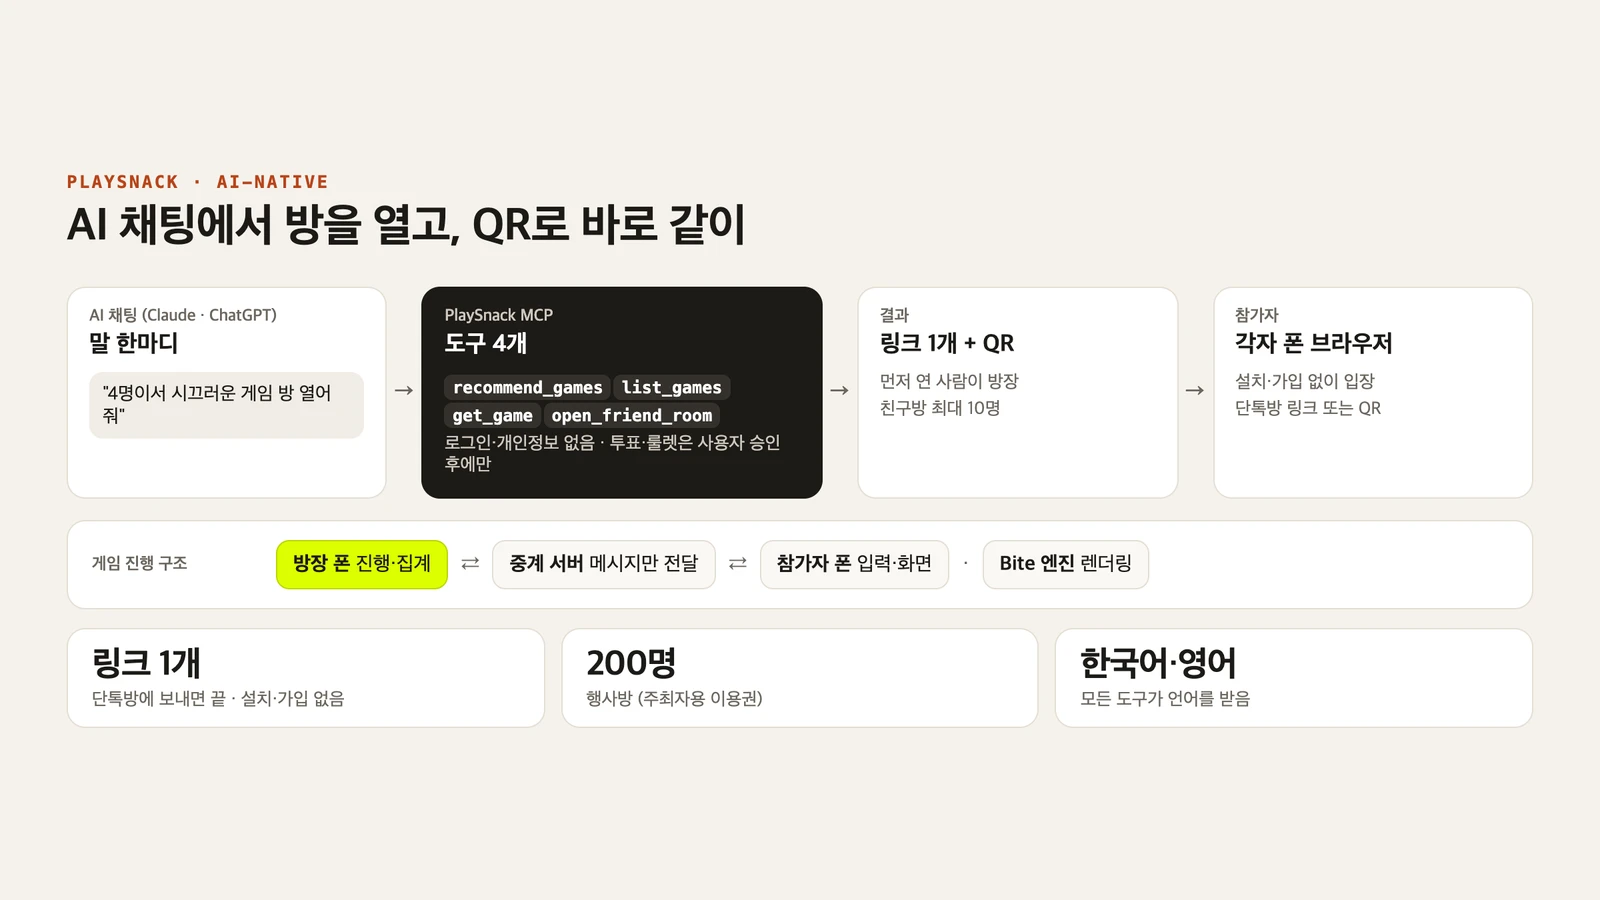
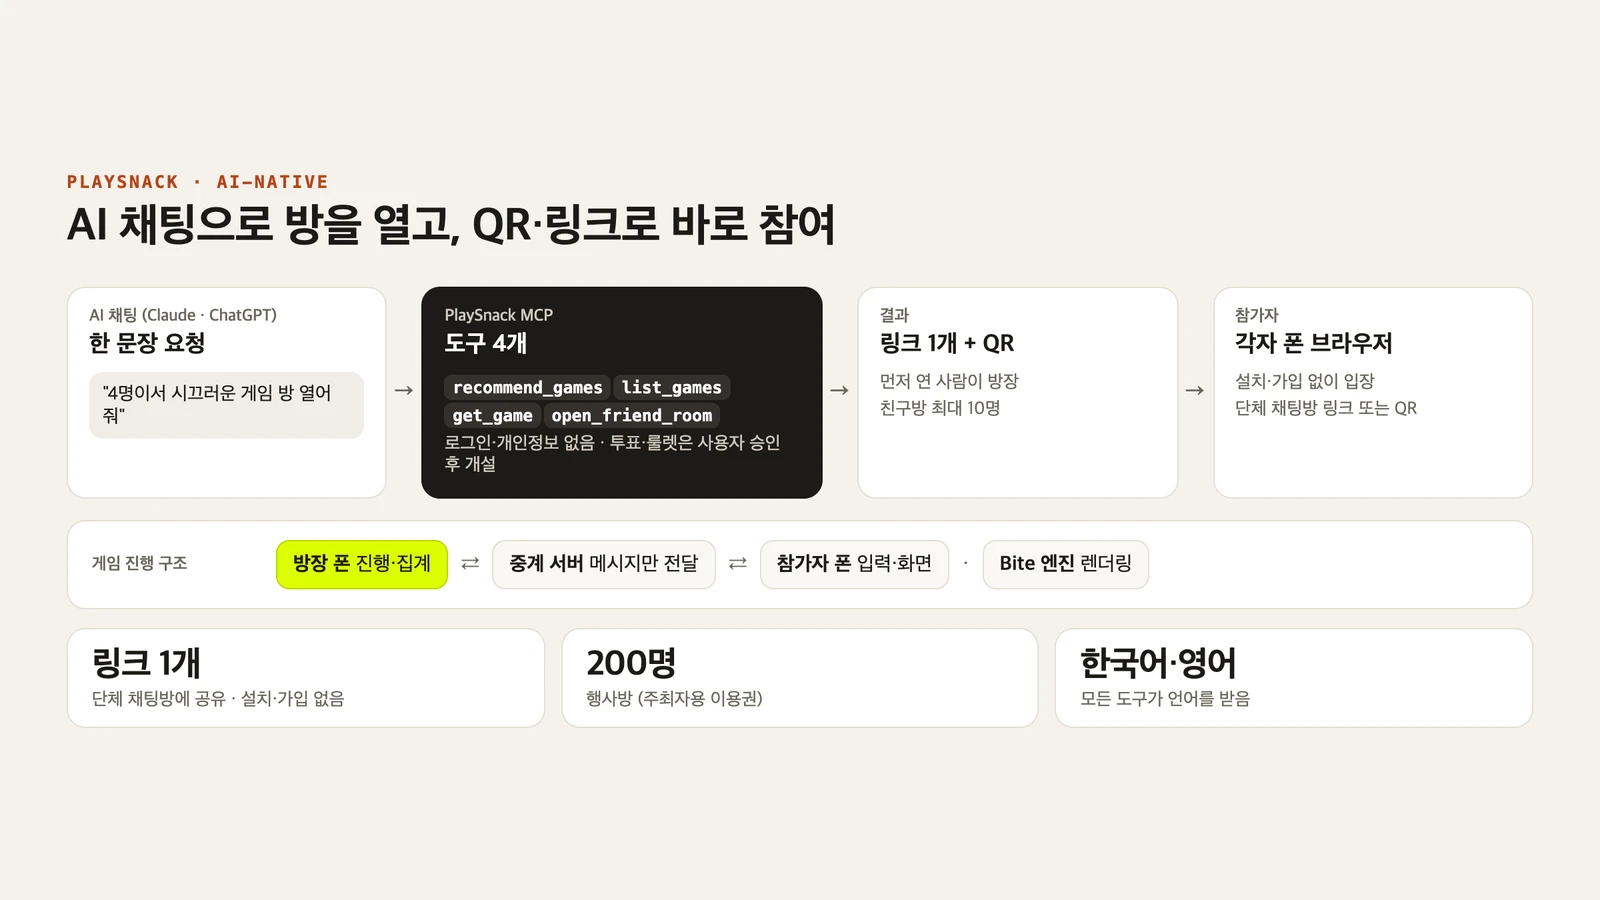
content: 한국어 어투 정리 — 문단은 ~습니다, 목록·캡션은 명사형 개조식, 구어 표현(말 한마디·단톡방·~나눠요·~없어요 등) 정리, PlaySnack·Bite 개요 그림 문구 포함

diff --git a/src/content/projects.ts b/src/content/projects.ts
@@ -187,7 +187,7 @@ const data: (Omit<Project, "images"> & { images?: ImageAsset[]; leadImages?: Ima
       problem:
         "ProtoPie Player는 iOS·Android로만 제공돼, Huawei(HarmonyOS) 기기에서는 프로토타입을 실행해 볼 수 없었습니다. HarmonyOS는 언어와 UI 프레임워크가 달라 엔진·렌더러·UI 코드를 모두 새로 써야 했고, 인원은 PO인 저와 개발자 1명이었습니다.",
       decisions: [
-        "코드를 옮기는 대신 스펙을 옮김 — 기능 스펙이 같은 Android 앱의 동작을 스펙과 검증 기준으로 정리하고, 구현은 그 스펙을 따르게 함",
+        "코드 대신 스펙 이전 — 기능 스펙이 같은 Android 앱의 동작을 스펙과 검증 기준으로 정리하고, 구현은 그 스펙 기준으로 진행",
         "계획·검증은 Claude Code, 코딩은 Codex로 나누고, 병렬로 가능한 개발·검증은 에이전트 팀이 반복 루프로 진행",
         "AI 학습이 부족한 HarmonyOS API는 검색으로 추적하고, 공식 문서·라이브러리가 틀린 곳은 직접 테스트해 보완 개발",
         "MVP 기능은 모두 개발하고, USB 연결처럼 네이티브 라이브러리에 의존하는 선택적 기능은 보류해 일정 안에 출시",
@@ -236,11 +236,11 @@ const data: (Omit<Project, "images"> & { images?: ImageAsset[]; leadImages?: Ima
       problem:
         "웹 게임 엔진은 폰·인앱 브라우저에서 무거운 3D를 감당하기 어렵고, 네이티브 엔진은 웹에서 무겁습니다. 특정 앱에 묶이지 않고 웹과 폰에서 같은 결과를 가볍게 내는 엔진이 필요했습니다.",
       decisions: [
-        "앱과 독립 — 엔진은 앱·콘텐츠를 모르고, 앱은 공개된 호스트 API로만 엔진을 씀",
-        "한 엔진, 여러 플랫폼 — Rust 코어를 웹·Android·macOS로 빌드하고, GPU는 wgpu 위에 WebGL2 경로를 둠",
-        "느낌이 아니라 같은 화면으로 고름 — 2D 렌더러 후보를 같은 장면으로 나란히 그려 비교",
-        "결정적 실행 — 같은 입력이면 같은 프레임·샷 결과, 해시로 버전 간 회귀를 잡음",
-        "기능은 모듈로 — 3D·탄도·파티클 등은 필요할 때만 넣고, 웹 기본 빌드 크기를 게이트로 지킴",
+        "앱과 독립 — 엔진은 앱·콘텐츠에 의존하지 않고, 앱은 공개된 호스트 API로만 엔진을 사용",
+        "한 엔진, 여러 플랫폼 — Rust 코어를 웹·Android·macOS로 빌드하고, GPU는 wgpu 위에 WebGL2 경로까지 지원",
+        "같은 화면으로 비교해 선택 — 2D 렌더러 후보를 같은 장면으로 나란히 렌더링해 비교",
+        "결정적 실행 — 같은 입력이면 같은 프레임·샷 결과, 해시로 버전 간 회귀 검출",
+        "기능은 모듈로 — 3D·탄도·파티클 등은 필요할 때만 넣고, 웹 기본 빌드 크기는 빌드마다 상한 검사",
       ],
       outcome: {
         label: "결과",
@@ -257,12 +257,12 @@ const data: (Omit<Project, "images"> & { images?: ImageAsset[]; leadImages?: Ima
     duty: "기획·설계·개발",
     keywords: list("MCP, Multiplayer, Social Games"),
     notionDate: { start: "2026-10-07" },
-    fullName: "PlaySnack · 친구랑 바로 한 판",
+    fullName: "PlaySnack — 링크·QR로 함께하는 소셜 게임",
     domain: "개인 프로젝트 / 소셜 게임 서비스",
     period: "2026.10 -",
     tasks: [
       "[직접] 서비스 기획·개발 — 게임·퀴즈·투표·월드컵을 JSON 앱 문서로 만들고, 링크를 연 사람끼리 실시간으로 같이 플레이 ([playsnack.app](https://playsnack.app))",
-      "[직접] AI 네이티브 — PlaySnack MCP 서버(도구 4개: 게임 추천·목록·규칙·친구방 열기)로 Claude·ChatGPT에서 말 한마디로 방을 열면 링크 1개와 QR 페이지를 돌려줌. 로그인·개인정보 없음, 투표·룰렛은 사용자 승인 후에만 열리도록 서버가 막음",
+      "[직접] AI 네이티브 — PlaySnack MCP 서버(도구 4개: 게임 추천·목록·규칙·친구방 열기)로 Claude·ChatGPT에서 한 문장 요청으로 방을 열면 링크 1개와 QR 페이지를 반환. 로그인·개인정보 없음, 투표·룰렛은 사용자 승인 전에는 서버에서 차단",
       "[직접] QR·링크 입장 — 설치·가입 없이 각자 폰 브라우저로, 먼저 연 사람이 방장(친구방 최대 10명)",
       "[직접] 행사 주최자용 기능 — 송년회·워크숍 같은 행사를 열면 최대 200명이 같은 방에서 참여, 진행자가 방(PIN 등)을 관리, 행사 이용권(하루 US$49, 필요한 날수만큼) 결제를 2026.11 실서비스로 오픈",
       "[직접] 호스트 방식 멀티플레이 — 게임 진행·집계는 방장 기기가 맡고 서버는 메시지만 중계해, 방이 늘어도 서버 부담과 장애 범위를 작게",
@@ -292,9 +292,9 @@ const data: (Omit<Project, "images"> & { images?: ImageAsset[]; leadImages?: Ima
         "모임이나 행사에서 바로 같이 할 수 있는 게임은 설치나 가입이 번거롭고, 행사 주최자는 수십~수백 명을 한 번에 참여시킬 도구가 필요했습니다. 또 골프처럼 실제 운동과 이어지는 게임은 비싼 측정 장비가 필요했습니다.",
       decisions: [
         "링크 하나로 같이 — 설치·가입 없이 링크를 연 사람끼리 실시간으로 플레이, 행사는 주최자가 열고 진행",
-        "서버는 얇게 — 게임 진행은 방장 기기가, 서버는 중계만",
-        "게임은 문서로 — 앱을 JSON 문서로 정의해 AI가 만들고 고치기 쉽게",
-        "측정 장비 대신 아이폰 — 240fps 카메라 영상 전체에 탄도 모델을 맞춰 샷을 재고, 게임과 실시간으로 이어 그 샷으로 라운드",
+        "서버 최소화 — 게임 진행은 방장 기기, 서버는 메시지 중계만 담당",
+        "게임은 문서로 — 앱을 JSON 문서로 정의해 AI가 생성·수정하기 쉬운 구조",
+        "측정 장비 대신 아이폰 — 240fps 카메라 영상 전체에 탄도 모델을 맞춰 샷을 재고, 게임과 실시간으로 연결해 실제 샷으로 라운드 진행",
       ],
       outcome: {
         label: "현재",
@@ -338,11 +338,11 @@ const data: (Omit<Project, "images"> & { images?: ImageAsset[]; leadImages?: Ima
       problem:
         "인터랙션 애니메이션은 보통 전용 도구에서 만드는 바이너리 파일이라, AI 코딩 도구가 읽거나 고칠 수 없고 코드 리뷰와 변경 이력도 남지 않습니다. 플랫폼마다 따로 구현해야 해서 웹·iOS·Android의 움직임이 조금씩 달라지기도 했습니다.",
       decisions: [
-        "평범한 JSON 한 파일 — 모든 플랫폼이 이미 읽고, JSON Schema로 기술되고, LLM이 안정적으로 씀",
-        "구현이 아니라 스펙이 기준 — 기대값을 런타임과 독립적으로 계산한 적합성 테스트를 TypeScript·Swift·Kotlin 런타임이 모두 통과해야 함",
-        "코어는 그리지 않음 — 이벤트 입력과 속성 값 출력만 하는 결정적 코어, 그리기는 플랫폼 어댑터 몫",
-        "AI가 스스로 확인하고, 판단은 사람이 — 검증·시뮬레이션·프레임 렌더링으로 AI가 고치고, 변경 전후를 나란히 보여 줘 사람이 고름",
-        "옮길 때는 증명과 함께 — 기존 CSS를 옮길 때 같은 움직임이 증명될 때만 파일을 쓰고, 못 하는 것은 이유와 함께 거절",
+        "평범한 JSON 한 파일 — 모든 플랫폼이 이미 읽고, JSON Schema로 기술되고, LLM이 안정적으로 작성 가능",
+        "구현이 아니라 스펙이 기준 — 기대값을 런타임과 독립적으로 계산한 적합성 테스트를 TypeScript·Swift·Kotlin 런타임이 모두 통과하도록 운영",
+        "렌더링과 코어 분리 — 코어는 이벤트 입력과 속성 값 출력만 담당하는 결정적 구조, 렌더링은 플랫폼 어댑터가 담당",
+        "AI가 스스로 확인하고, 판단은 사람이 — 검증·시뮬레이션·프레임 렌더링으로 AI가 고치고, 변경 전후를 나란히 보여 주고 최종 선택은 사람이",
+        "옮길 때는 증명과 함께 — 기존 CSS를 옮길 때 같은 움직임이 증명될 때만 파일을 쓰고, 변환할 수 없는 것은 이유와 함께 거절",
       ],
       outcome: {
         label: "결과",

diff --git a/src/content/labels.ts b/src/content/labels.ts
@@ -69,8 +69,8 @@ export const labels = {
   },
   contact: {
     eyebrow: "Contact",
-    title: "이야기 나눠요",
-    description: "AI를 실제 서비스로 옮기는 고민, 개발 조직을 꾸리는 고민이라면 편하게 연락 주세요.",
+    title: "이야기 나누고 싶습니다",
+    description: "AI를 실제 서비스로 옮기는 고민, 개발 조직을 꾸리는 고민이라면 편하게 연락 주십시오.",
     mailSubject: "[포트폴리오] 문의",
     copyHint: "클릭하면 복사",
     copyEmailLabel: (email: string) => `이메일 주소 ${email} 복사`,
@@ -84,7 +84,7 @@ export const labels = {
   },
   notFound: {
     code: "404",
-    title: "페이지를 찾을 수 없어요",
+    title: "페이지를 찾을 수 없습니다",
     home: "홈으로 돌아가기 →",
   },
 };
